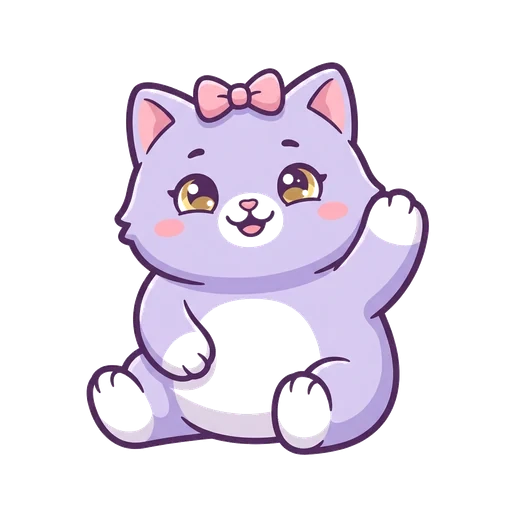
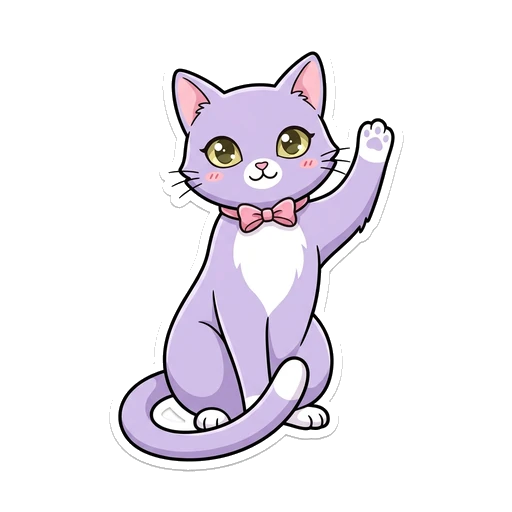
Redesign mascots: more Korean-looking schoolgirl (straight bangs, big purple ribbon, striped tie, plaid skirt, '한국' textbook) + slim elegant lavender cat with pink bowtie (not chubby); smaller file size 24KB/21KB

diff --git a/app.html b/app.html
@@ -60,8 +60,8 @@
 </div>
 
 <script src="js/config.js"></script>
-<script src="js/common.js?v=mascot-1"></script>
-<script src="js/auth.js?v=mascot-1"></script>
+<script src="js/common.js?v=mascot-2"></script>
+<script src="js/auth.js?v=mascot-2"></script>
 <script src="data/topik1-bank.js"></script>
 <script src="data/topik2-bank.js"></script>
 <script src="data/level1-bank.js"></script>
@@ -72,6 +72,6 @@
 <script src="data/level6-bank.js"></script>
 <script src="data/mock-tests.js"></script>
 <script src="data/topik-schedule.js"></script>
-<script src="js/app.js?v=mascot-1"></script>
+<script src="js/app.js?v=mascot-2"></script>
 </body>
 </html>
